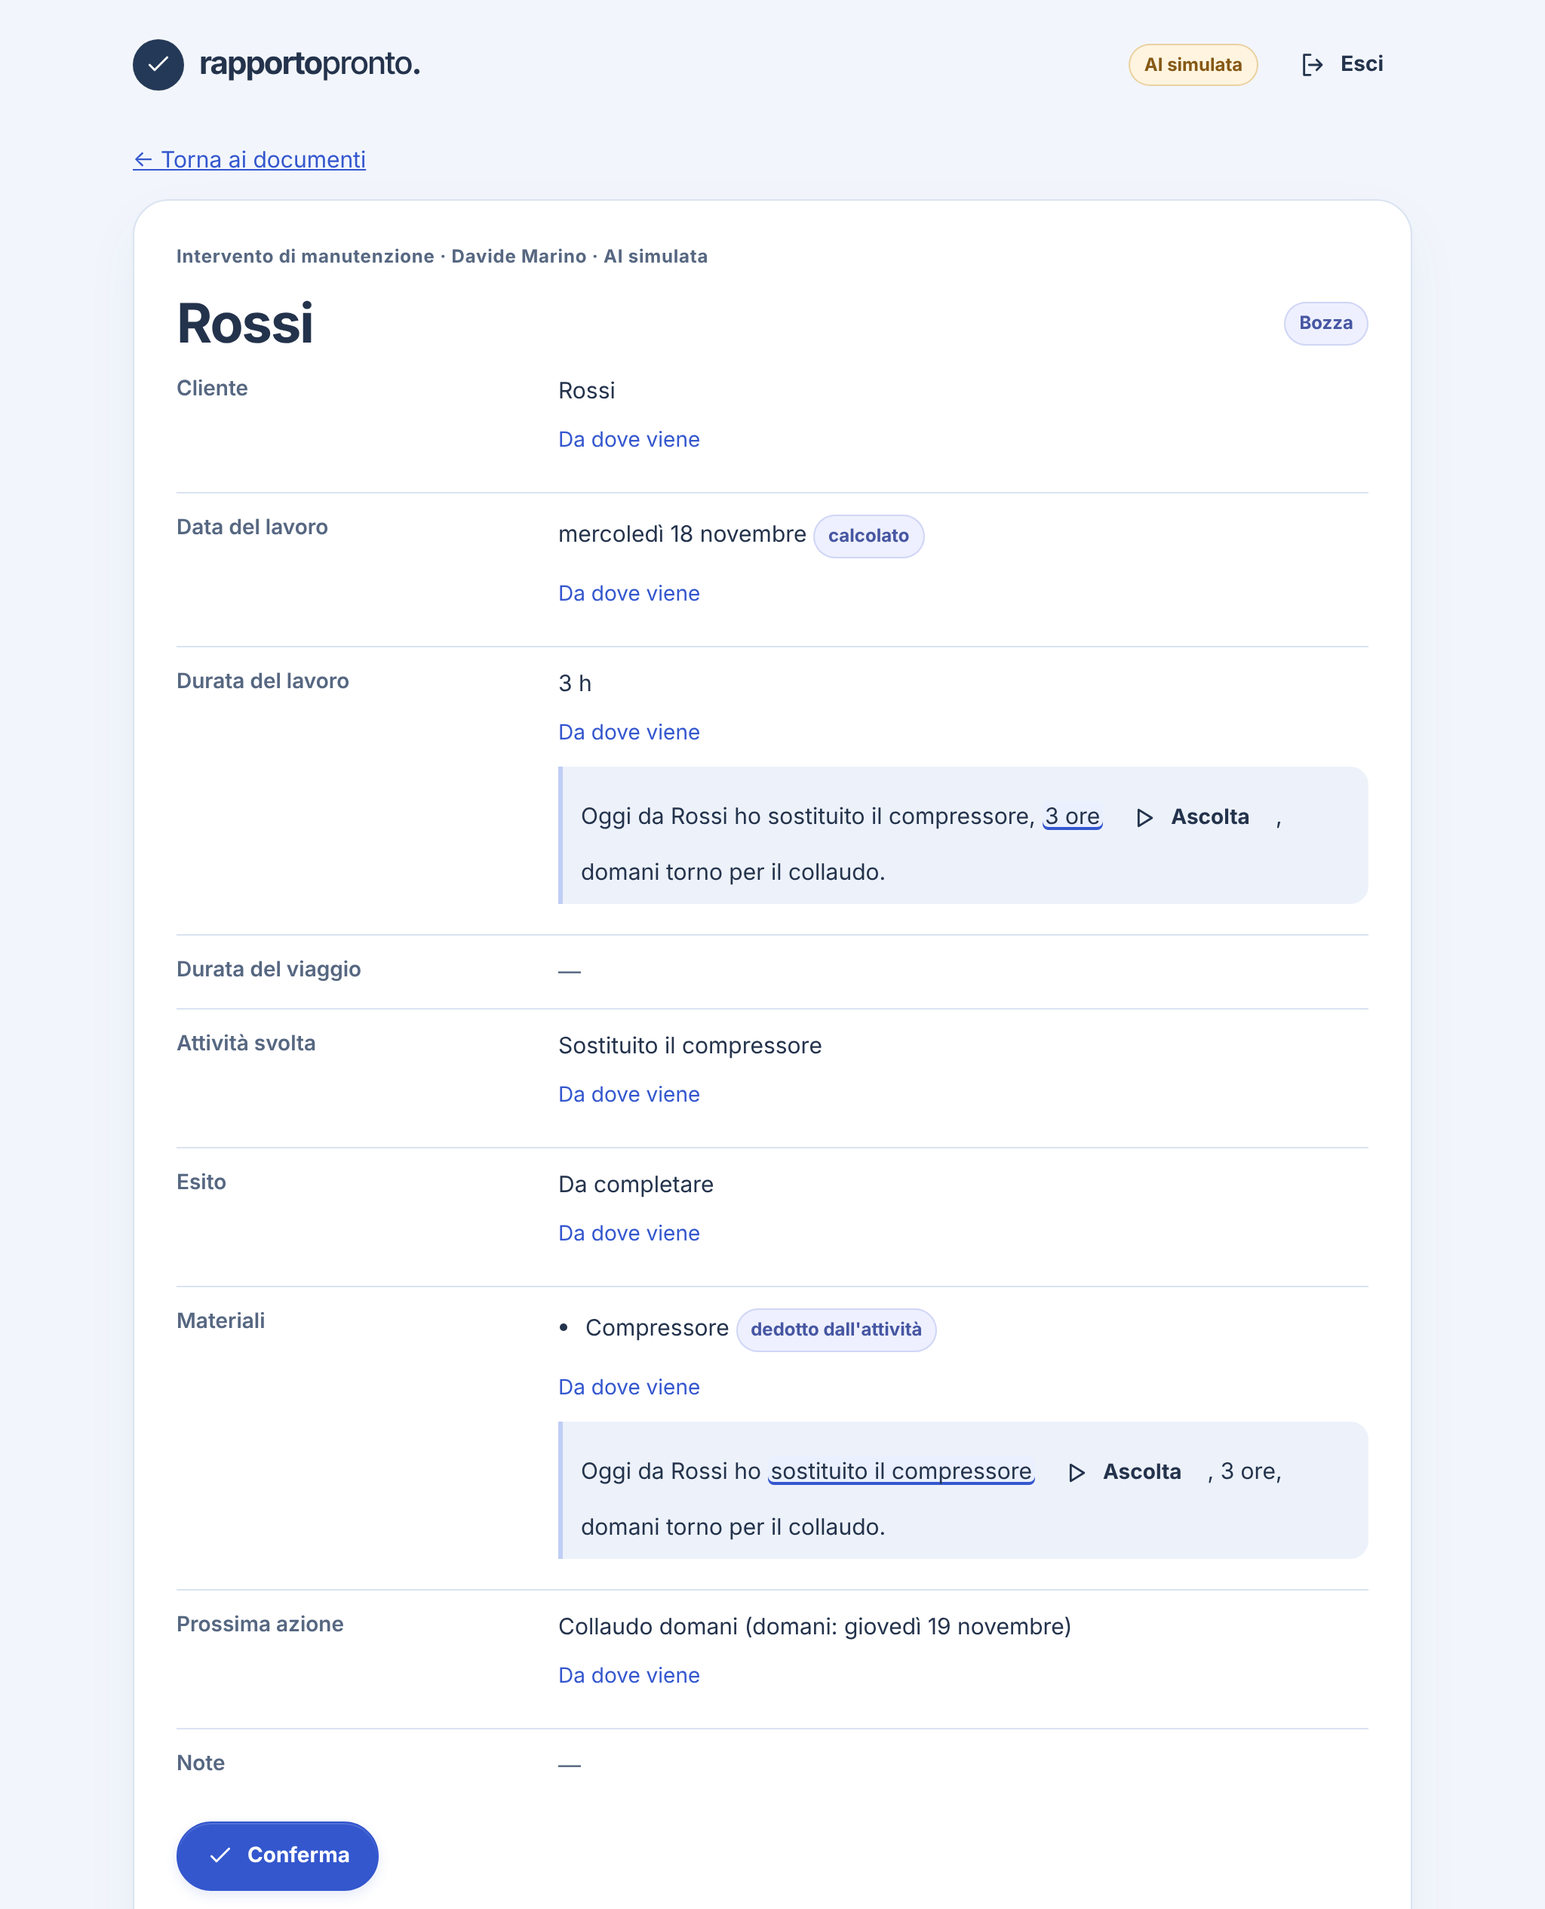
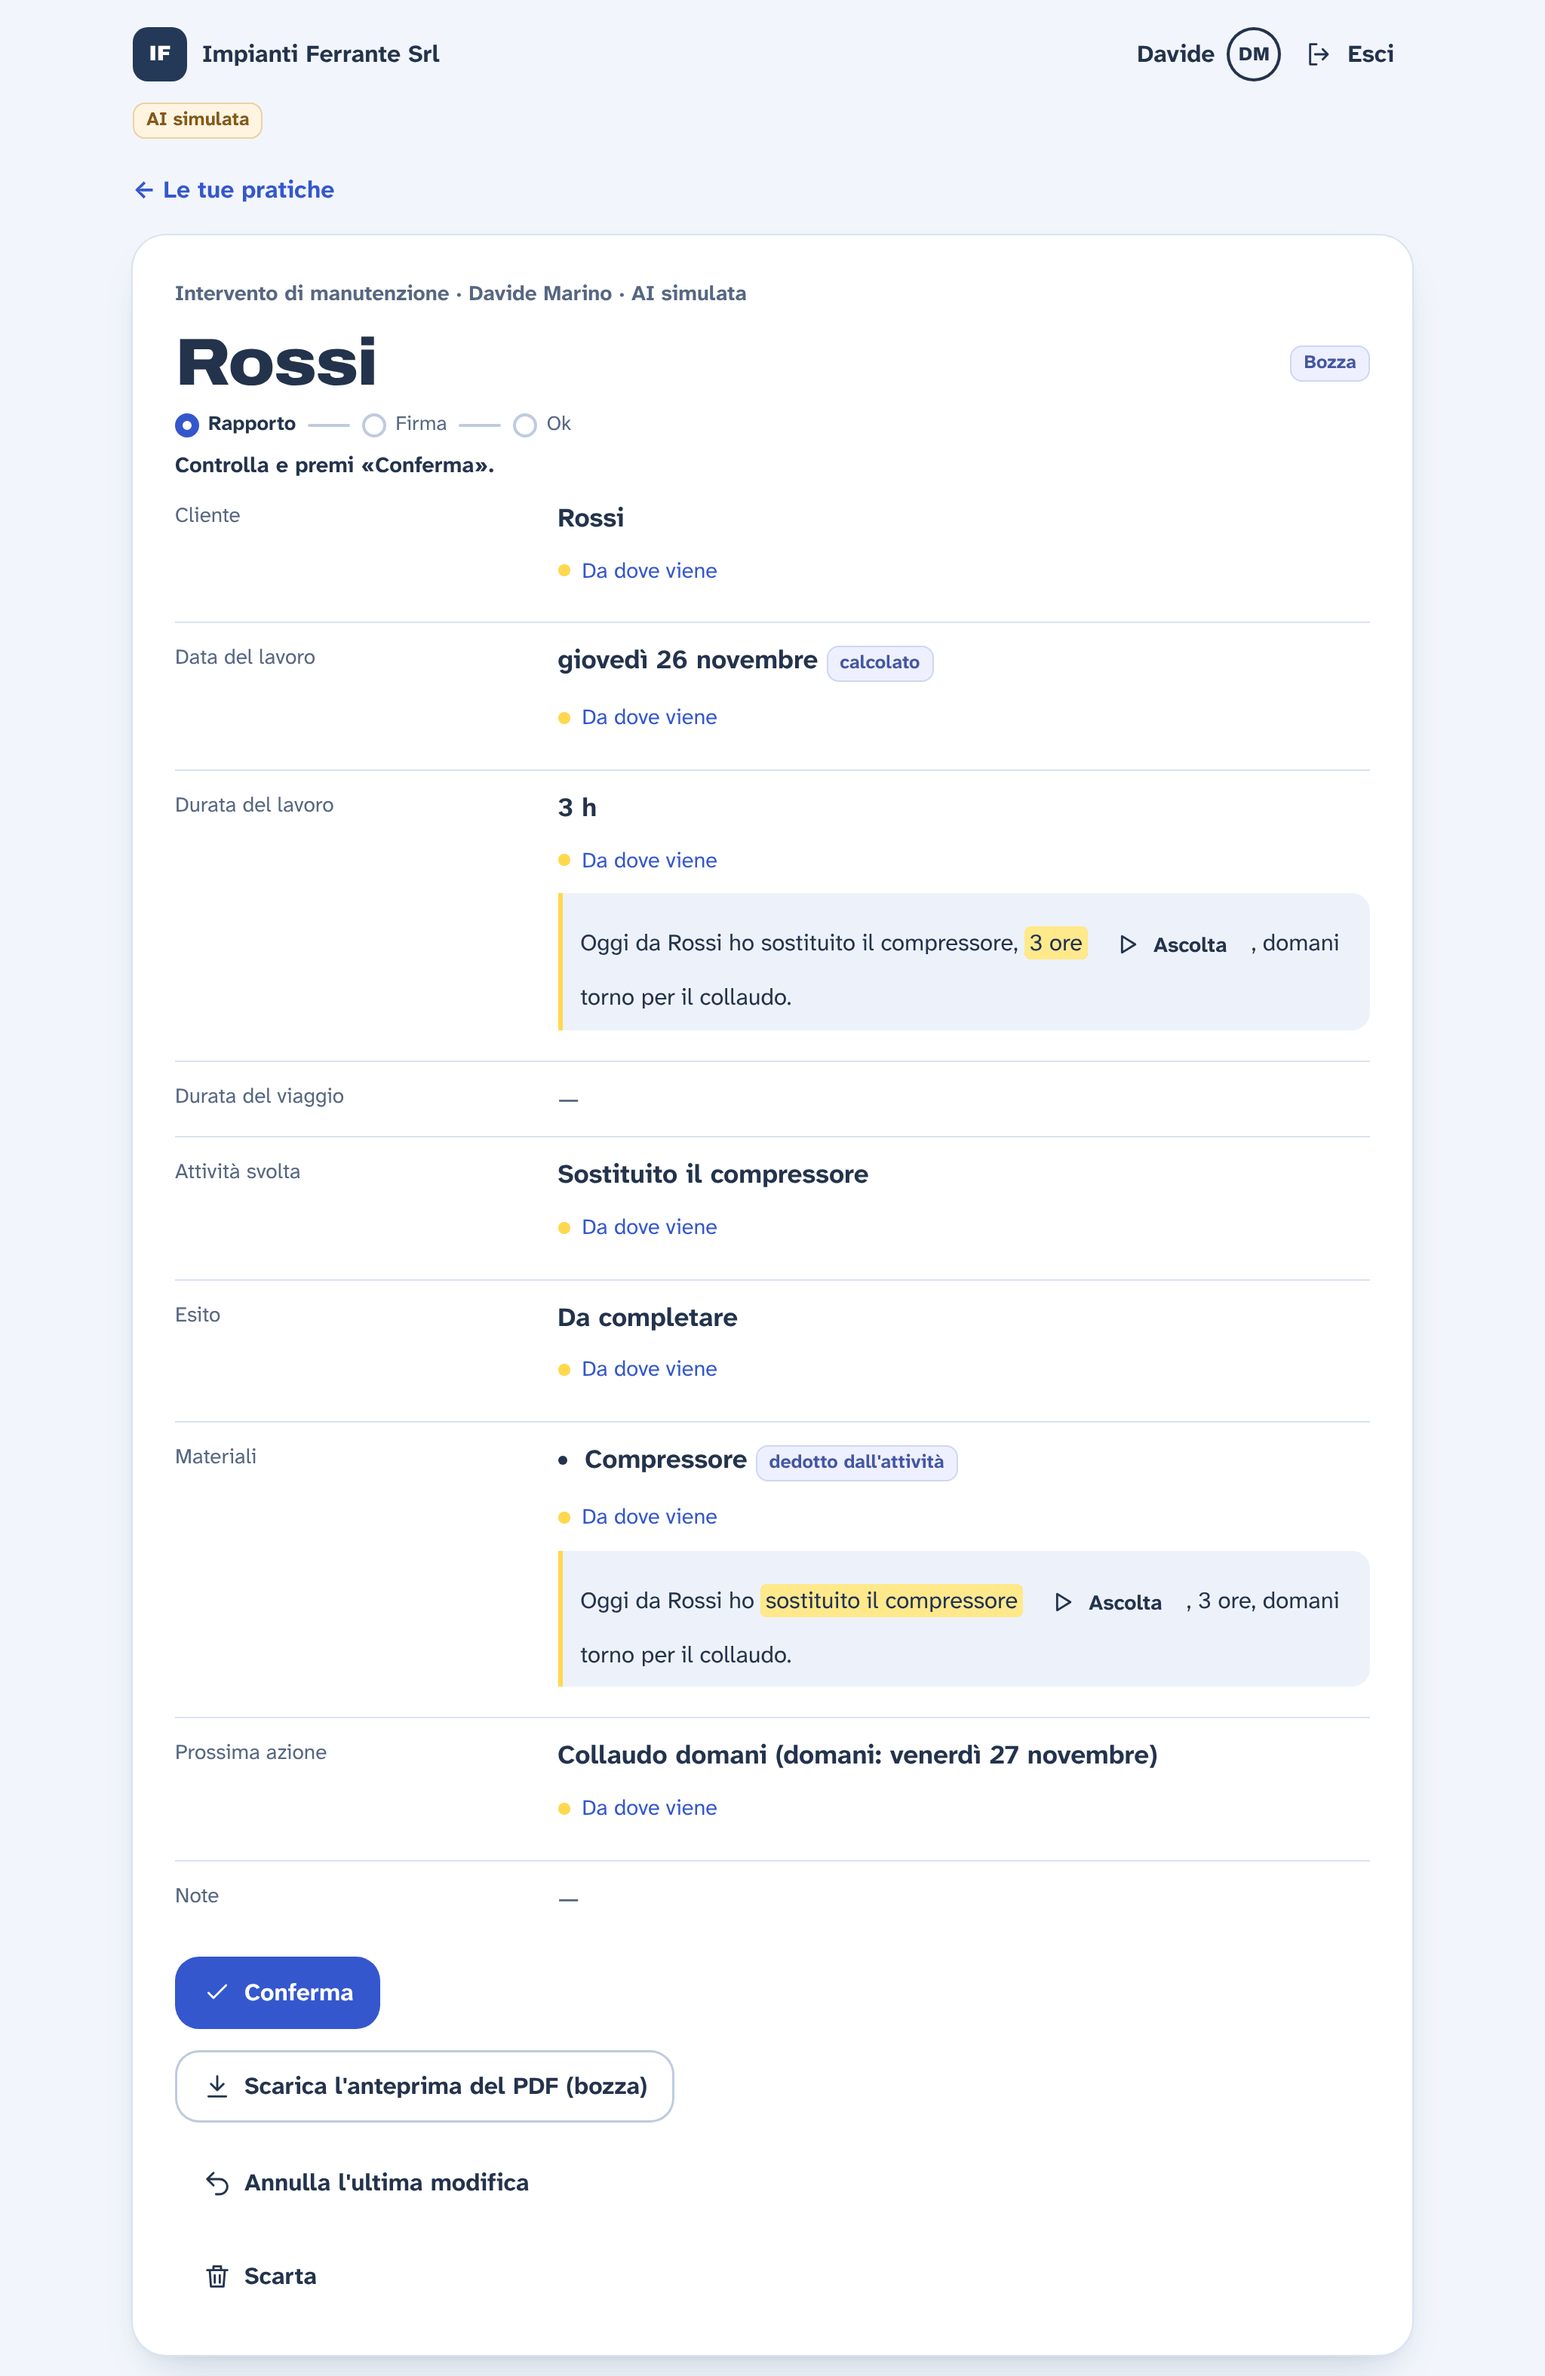
Mostra Rapporto Pronto in una GIF dal telefono
Nel profilo e nel caso di studio il percorso sul telefono: nota vocale,
rapportino con le parole da cui viene ogni dato, domanda e risposta, firma
del cliente. Le altre tre immagini sono rifatte sulla grafica nuova, con
le descrizioni riscritte in italiano e in inglese.

diff --git a/case-studies/rapporto-pronto.md b/case-studies/rapporto-pronto.md
@@ -4,15 +4,15 @@ Italiano · [English](rapporto-pronto.en.md) · [Profilo](../README.md)
 
 Sto sviluppando Rapporto Pronto per i tecnici che devono documentare gli interventi di manutenzione. A fine intervento il tecnico sa che cosa ha fatto, mentre all’ufficio serve un resoconto scritto. Con l’app può dettare la propria nota e verificare il rapportino che ne viene ricavato.
 
-<img src="img/rapporto-pronto/nota-dal-telefono.png" alt="Telefono di un tecnico durante la registrazione di una nota vocale per un nuovo intervento, con i pulsanti per metterla in pausa, eliminarla o inviarla. Sotto ci sono una nota precedente e il riepilogo che l’app ne ha ricavato." width="320">
+<img src="img/rapporto-pronto/percorso.gif" alt="Rapporto Pronto sul telefono di un tecnico, in poco più di venti secondi. Il tecnico tiene premuto il microfono e detta il lavoro. L’app compila il rapportino, mostra le parole della nota da cui viene la durata e chiede com’è finito l’intervento. Il tecnico risponde «da completare» e passa il telefono al cliente, che legge il documento dall’inizio e firma con il dito." width="320">
 
-<img src="img/rapporto-pronto/nota-dal-computer.png" alt="La stessa schermata nel browser di un computer: un tecnico registra una nota vocale per un nuovo intervento, con i pulsanti per metterla in pausa, eliminarla o inviarla. Sotto ci sono una nota precedente, il riepilogo che l’app ne ha ricavato e il rapportino creato, da rivedere." width="820">
+<img src="img/rapporto-pronto/nota-dal-computer.png" alt="La stessa pagina nel browser di un computer. In alto c’è la nota vocale del tecnico con la sua trascrizione. Sotto c’è il rapportino che l’app ne ha ricavato, con l’esito che manca e la domanda: «Com’è finita: risolto, non risolto o da completare?». In fondo c’è il microfono per la nota successiva." width="820">
 
 ## Dalla nota al rapportino
 
 Il tecnico può dettare o scrivere una nota. Se parte da una registrazione, durante la revisione può leggere la trascrizione e riascoltare il passaggio a cui si riferisce un dato. Se il nome di un ricambio sembra sbagliato, può tornare alle proprie parole, correggere la bozza e confermare il rapportino.
 
-<img src="img/rapporto-pronto/bozza-in-revisione.png" alt="Bozza di un rapportino di manutenzione in revisione su computer. Per la durata e per il compressore è aperta la trascrizione della nota vocale, con le parole da cui viene il dato evidenziate e il pulsante per riascoltarle. In fondo c’è il pulsante Conferma." width="820">
+<img src="img/rapporto-pronto/bozza-in-revisione.png" alt="Bozza di un rapportino di manutenzione in revisione su computer. Per la durata e per il compressore è aperta la trascrizione della nota vocale, con le parole da cui viene il dato evidenziate e il pulsante Ascolta per riascoltarle. In fondo ci sono i pulsanti Conferma e Scarica l’anteprima del PDF." width="820">
 
 Ho sviluppato l’interfaccia di revisione in React e TypeScript con Next.js. Il backend Node.js elabora le note in background e salva i rapportini in PostgreSQL. Ho mantenuto la nota originale a portata di mano durante la revisione perché anche una frase plausibile può descrivere un intervento diverso da quello eseguito.
 
@@ -29,10 +29,10 @@ Nel primo prototipo l’interpretazione del testo era simulata. Nella versione a
 - **Test e controlli.** Scrivo i test con Vitest e Playwright e li faccio girare su GitHub Actions. La modalità simulata permette di provarli senza chiamare i servizi esterni.
 - **Rilascio.** L’ambiente Docker è già preparato, con backup cifrati e monitoraggio degli errori, ma non è ancora attivo.
 
-<img src="img/rapporto-pronto/rapportino-pdf.png" alt="Il rapportino in PDF: azienda, cliente, data, durata, attività svolta, esito, materiale e prossima azione, con la firma del cliente e data e ora di conferma, firma e approvazione. In alto una riga avverte che i valori vengono dalla modalità simulata." width="560">
+<img src="img/rapporto-pronto/rapportino-pdf.png" alt="Il rapportino in PDF con il nome dell’azienda: cliente, data, durata del lavoro e del viaggio, attività svolta, esito, materiali, prossima azione e note. In alto una riga avverte che i valori vengono dalla modalità simulata, e sotto si legge chi ha confermato il rapportino, chi l’ha firmato e che non è ancora approvato. In fondo c’è la firma del cliente con il timbro FIRMATO, il nome, la data e l’ora." width="560">
 
 ## Stato del progetto
 
-L’acquisizione della nota, la creazione della bozza e la revisione sono implementate nella versione di sviluppo. Rapporto Pronto non è ancora in produzione.
+L’acquisizione della nota, la creazione della bozza, la revisione e la firma del cliente sono implementate nella versione di sviluppo. Rapporto Pronto non è ancora in produzione.
 
 Il codice è privato perché è un prodotto in sviluppo. Lo mostro volentieri in call.

diff --git a/case-studies/rapporto-pronto.en.md b/case-studies/rapporto-pronto.en.md
@@ -4,15 +4,15 @@
 
 I’m building Rapporto Pronto for field technicians who document maintenance visits. After a visit, the technician knows what happened on site. The office needs that account in writing. The app lets the technician dictate a note and check the resulting service report.
 
-<img src="img/rapporto-pronto/nota-dal-telefono.png" alt="A technician’s phone while recording a voice note for a new job, with buttons to pause, delete or send it. Below are an earlier note and the summary the app drafted from it." width="320">
+<img src="img/rapporto-pronto/percorso.gif" alt="Rapporto Pronto on a technician’s phone, in just over twenty seconds. The technician holds the microphone and describes the job. The app fills in the report, shows the words in the note that the duration comes from and asks how the job ended. The technician answers “to be completed” and hands the phone to the customer, who reads the document from the top and signs with a finger." width="320">
 
-<img src="img/rapporto-pronto/nota-dal-computer.png" alt="The same screen in a computer browser: a technician records a voice note for a new job, with buttons to pause, delete or send it. Below are an earlier note, the summary the app drafted from it and the resulting report, marked for review." width="820">
+<img src="img/rapporto-pronto/nota-dal-computer.png" alt="The same page in a computer browser. At the top is the technician’s voice note with its transcript. Below it is the report the app drew from it, with the outcome missing and the question “How did it end: fixed, not fixed or to be completed?”. At the bottom is the microphone for the next note." width="820">
 
 ## From a note to a reviewed report
 
 A technician can dictate or type a note. For a recording, they can read the transcript during review and replay the passage behind a detail in the report. If a part name looks wrong, they can check what they said, correct the draft and confirm the report.
 
-<img src="img/rapporto-pronto/bozza-in-revisione.png" alt="A draft maintenance report under review on a computer. For the duration and the compressor, the voice note transcript is open, with the words behind each detail highlighted and a button to replay them. The confirm button is at the bottom." width="820">
+<img src="img/rapporto-pronto/bozza-in-revisione.png" alt="A draft maintenance report under review on a computer. For the duration and the compressor, the voice note transcript is open, with the words behind each detail highlighted and a Listen button to replay them. At the bottom are the buttons to confirm the report and to download a PDF preview." width="820">
 
 I built the review interface with React, TypeScript and Next.js. The Node.js backend processes notes in the background and stores reports in PostgreSQL. I kept the original note available during review because a plausible sentence can still describe the wrong repair.
 
@@ -29,10 +29,10 @@ The first prototype simulated text interpretation. In the current version, I’v
 - **Tests and checks.** I write tests with Vitest and Playwright and run them on GitHub Actions. Simulated mode lets them run without calling the external services.
 - **Deployment.** The Docker environment is already prepared, with encrypted backups and error monitoring, but it is not live yet.
 
-<img src="img/rapporto-pronto/rapportino-pdf.png" alt="The PDF service report: company, customer, date, duration, work done, outcome, part and next step, with the customer’s signature and the date and time it was confirmed, signed and approved. A line at the top notes that the values come from simulated mode." width="560">
+<img src="img/rapporto-pronto/rapportino-pdf.png" alt="The PDF service report with the company’s name: customer, date, work and travel time, work done, outcome, parts, next step and notes. A line at the top notes that the values come from simulated mode, and below it the report says who confirmed it, who signed it and that it is not yet approved. At the bottom is the customer’s signature with a stamp reading “FIRMATO” (signed), their name, the date and the time." width="560">
 
 ## Project status
 
-Note capture, drafting and review are implemented in the development build. Rapporto Pronto is not yet in production.
+Note capture, drafting, review and the customer’s signature are implemented in the development build. Rapporto Pronto is not yet in production.
 
 The code is private because the product is still in development. I’m happy to walk through it on a call.

diff --git a/README.md b/README.md
@@ -32,7 +32,7 @@ Da oltre due anni in Accenture sviluppo integrazioni a eventi in Java per un pro
 
 - **[Rapporto Pronto](case-studies/rapporto-pronto.md)** è un SaaS B2B in sviluppo, non ancora in produzione. Trasforma le note vocali dei tecnici sul campo in rapportini che l’ufficio può verificare. L’ho progettato e sviluppato da solo in TypeScript, con Next.js, React e Node.js. I dati stanno in PostgreSQL, con ogni azienda isolata nel database (Row Level Security). Deepgram trascrive i vocali e un modello OpenAI scrive la bozza. Il codice è privato: lo mostro volentieri in call.
 
-  <a href="case-studies/rapporto-pronto.md"><img src="https://raw.githubusercontent.com/Il-Sic/Il-Sic/main/case-studies/img/rapporto-pronto/nota-dal-computer.png" alt="Rapporto Pronto nel browser: un tecnico registra una nota vocale e sotto compaiono la trascrizione, il riepilogo ricavato dall’app e il rapportino da rivedere" width="640"></a>
+  <a href="case-studies/rapporto-pronto.md"><img src="https://raw.githubusercontent.com/Il-Sic/Il-Sic/main/case-studies/img/rapporto-pronto/percorso.gif" alt="Rapporto Pronto in poco più di venti secondi: il tecnico detta il lavoro, l’app compila il rapportino e chiede com’è finito, il tecnico risponde e il cliente firma con il dito sul telefono" width="300"></a>
 
 - **[Argonauta](case-studies/argonauta.md)** è la mia app iOS in Swift e SwiftUI per esplorare il territorio a piedi. Chi cammina può seguire una rotta, raccogliere schede su ciò che incontra e ritrovare le proprie scoperte nel Diario. L’app è attualmente in fase di test su iPhone e iPad.
 - **Cirullone** è un videogioco di carte che sto sviluppando in Unity e C#, ispirato alla tradizione italiana dei giochi di carte.

diff --git a/README.en.md b/README.en.md
@@ -32,7 +32,7 @@ I’ve spent over two years at Accenture building event-driven Java integrations
 
 - **[Rapporto Pronto](case-studies/rapporto-pronto.en.md)** is a B2B SaaS in development, not yet in production. It turns field technicians’ voice notes into service reports the office can check. I designed and built it on my own in TypeScript, with Next.js, React and Node.js. Data lives in PostgreSQL, with each company isolated in the database (Row Level Security). Deepgram transcribes the voice notes and an OpenAI model writes the draft. The code is private: I’m happy to walk through it on a call.
 
-  <a href="case-studies/rapporto-pronto.en.md"><img src="https://raw.githubusercontent.com/Il-Sic/Il-Sic/main/case-studies/img/rapporto-pronto/nota-dal-computer.png" alt="Rapporto Pronto in the browser: a technician records a voice note and below are the transcript, the summary the app drafted from it and the report marked for review" width="640"></a>
+  <a href="case-studies/rapporto-pronto.en.md"><img src="https://raw.githubusercontent.com/Il-Sic/Il-Sic/main/case-studies/img/rapporto-pronto/percorso.gif" alt="Rapporto Pronto in just over twenty seconds: the technician dictates the job, the app fills in the report and asks how it ended, the technician answers and the customer signs on the phone with a finger" width="300"></a>
 
 - **[Argonauta](case-studies/argonauta.en.md)** is my iOS app in Swift and SwiftUI for exploring on foot. Walkers can follow a route, collect cards about what they discover and revisit the walk in a journal. The app is currently undergoing testing on iPhone and iPad.
 - **Cirullone** is a card game I’m developing in Unity and C#, inspired by Italian card traditions.
